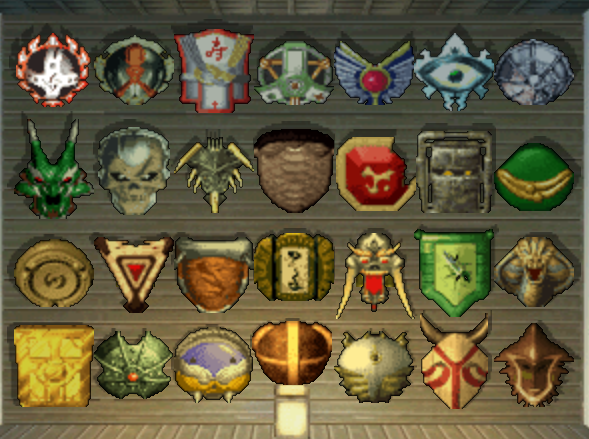
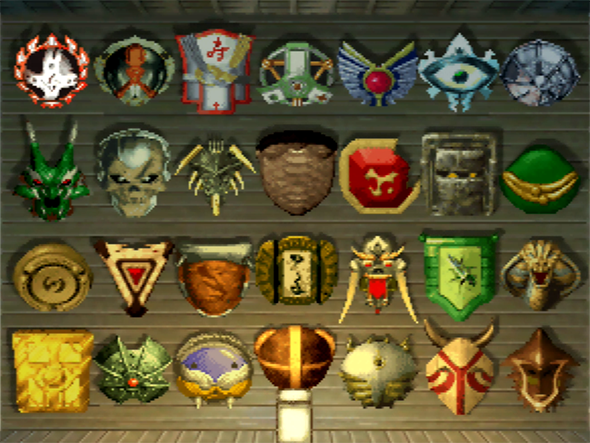
update equipment gallery images

diff --git a/html/playing/equipment-gallery.html b/html/playing/equipment-gallery.html
@@ -27,7 +27,7 @@
           <p>An important note is that <strong>once equipment is displayed, it can never be taken down from the wall</strong>.<br>Ideally you'll want to display duplicate or cursed weapons and shields, rather than strengthened ones.</p>
           <p>Nothing special happens upon completion, so this feature is just for collection and personal enjoyment.</p>
           <h3 id="weapons">Weapons</h3>
-          <img src="/shiren2/image/other/gallery_weapons.png" width="590" height="438" alt="Equipment Gallery Weapons (Image)" class="gallery_image">
+          <img src="/shiren2/image/other/gallery_weapons.png" width="590" height="441" alt="Equipment Gallery Weapons (Image)" class="gallery_image">
           <p>The location of each weapon on the wall is roughly as follows:</p>
           <table class="table_less_padding">
             <tr>
@@ -93,7 +93,7 @@
             </tr>
           </table>
           <h3 id="shields">Shields</h3>
-          <img src="/shiren2/image/other/gallery_shields.png" width="589" height="439" alt="Equipment Gallery Shields (Image)" class="gallery_image">
+          <img src="/shiren2/image/other/gallery_shields.png" width="590" height="443" alt="Equipment Gallery Shields (Image)" class="gallery_image">
           <p>The location of each shield on the wall is roughly as follows:</p>
           <table class="table_less_padding">
             <tr>

diff --git a/html/system/special-conditions.html b/html/system/special-conditions.html
@@ -266,7 +266,7 @@
             <tbody>
               <tr>
                 <td>Starvation</td>
-                <td><img src="/shiren2/image/condition/starvation.png" width="127" height="44" alt="Level and HP"><br>UI becomes dark</td>
+                <td><img src="/shiren2/image/condition/starvation.png" width="127" height="44" alt="Level and HP"><br>UI darkens</td>
                 <td>-</td>
                 <td class="text_left"></td>
                 <td>Turns passing<br>[Hunger Puppet F.]</td>
